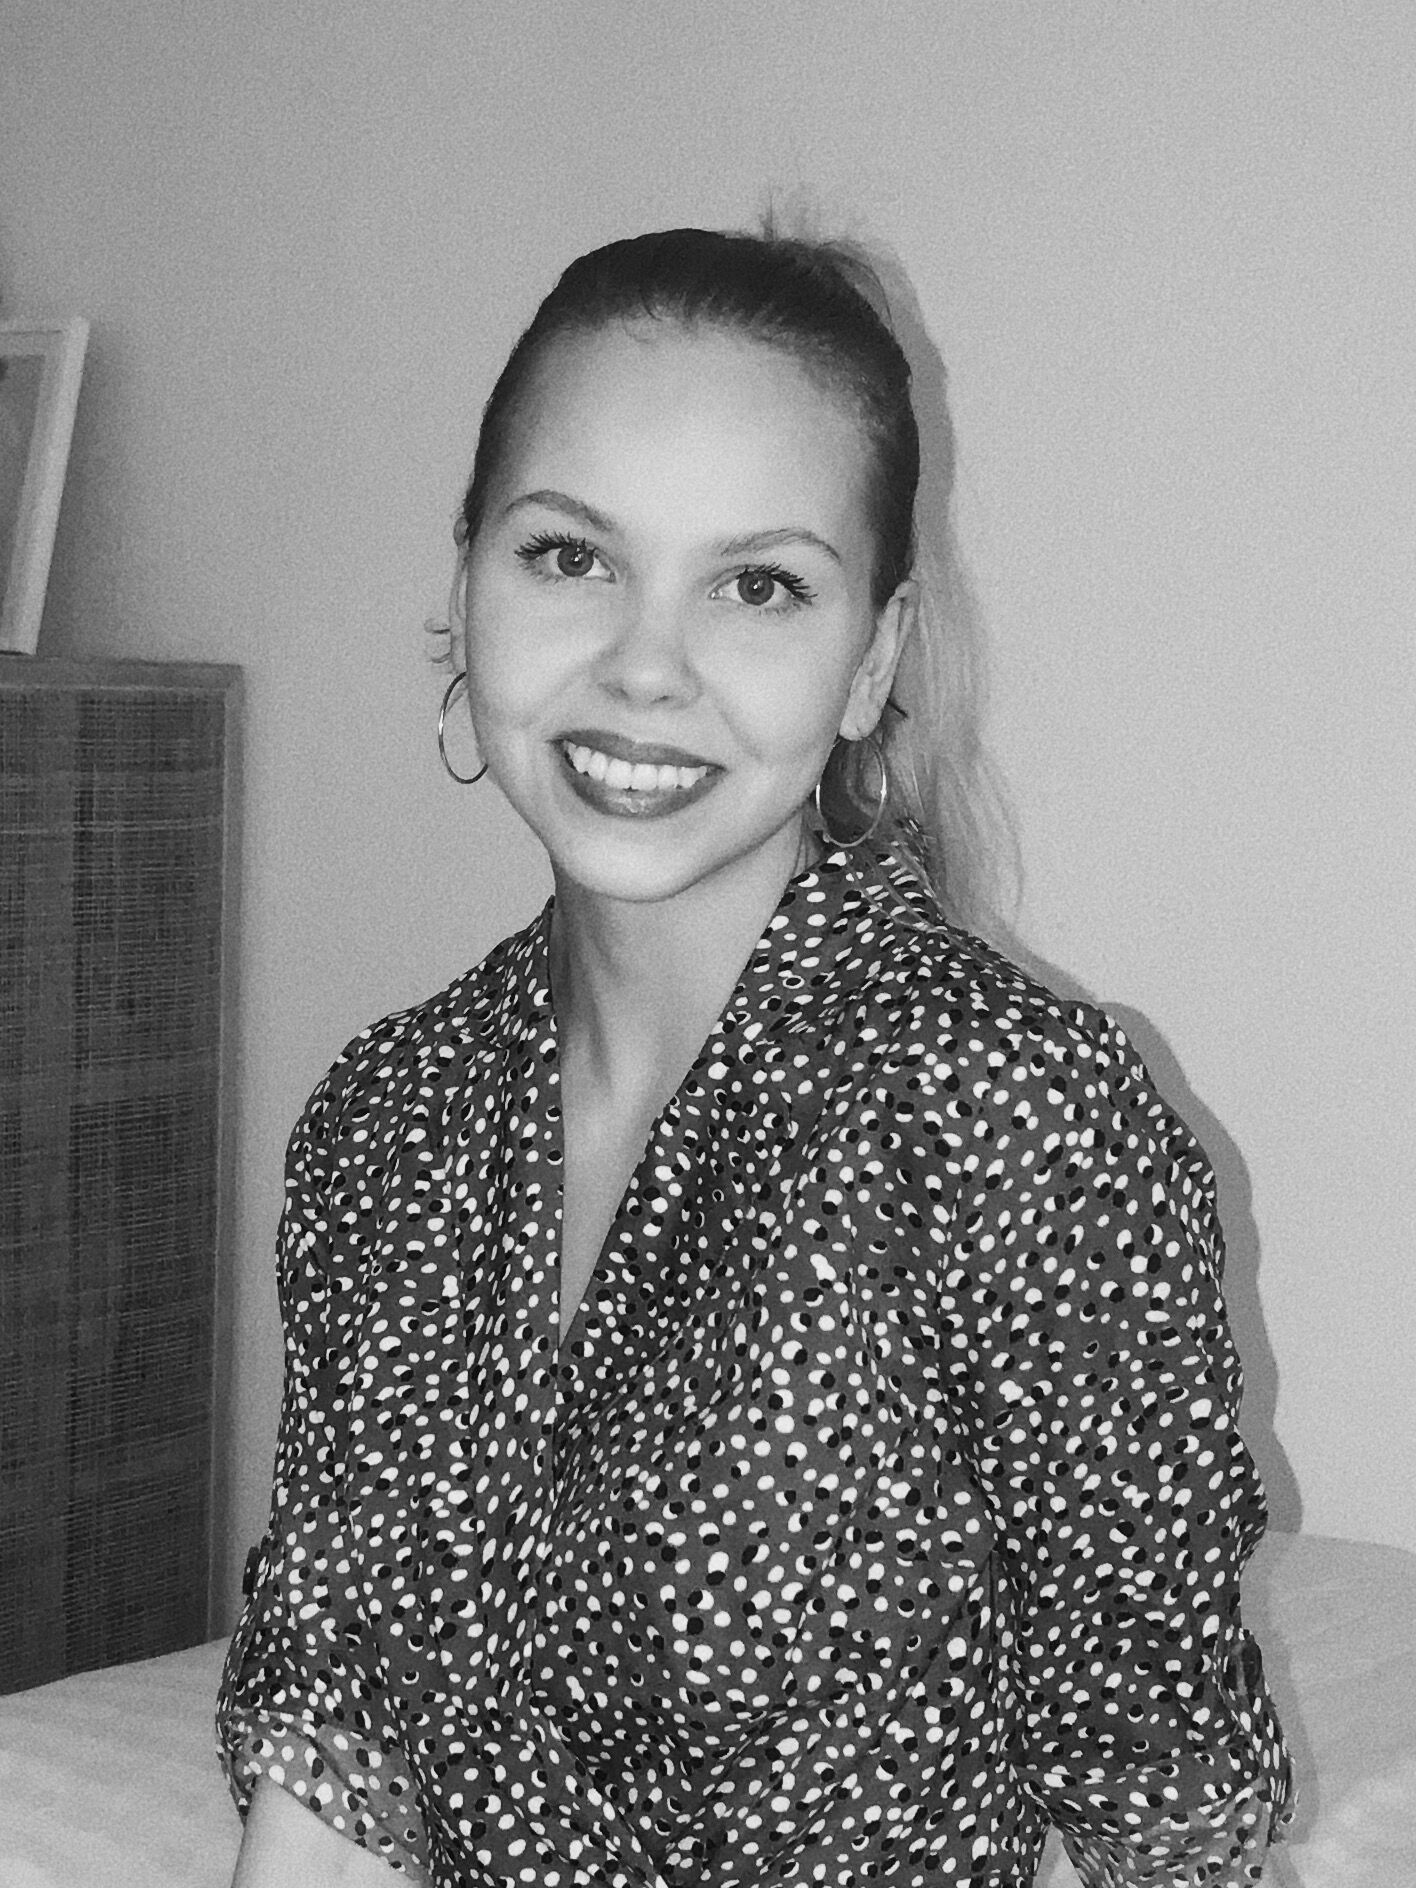
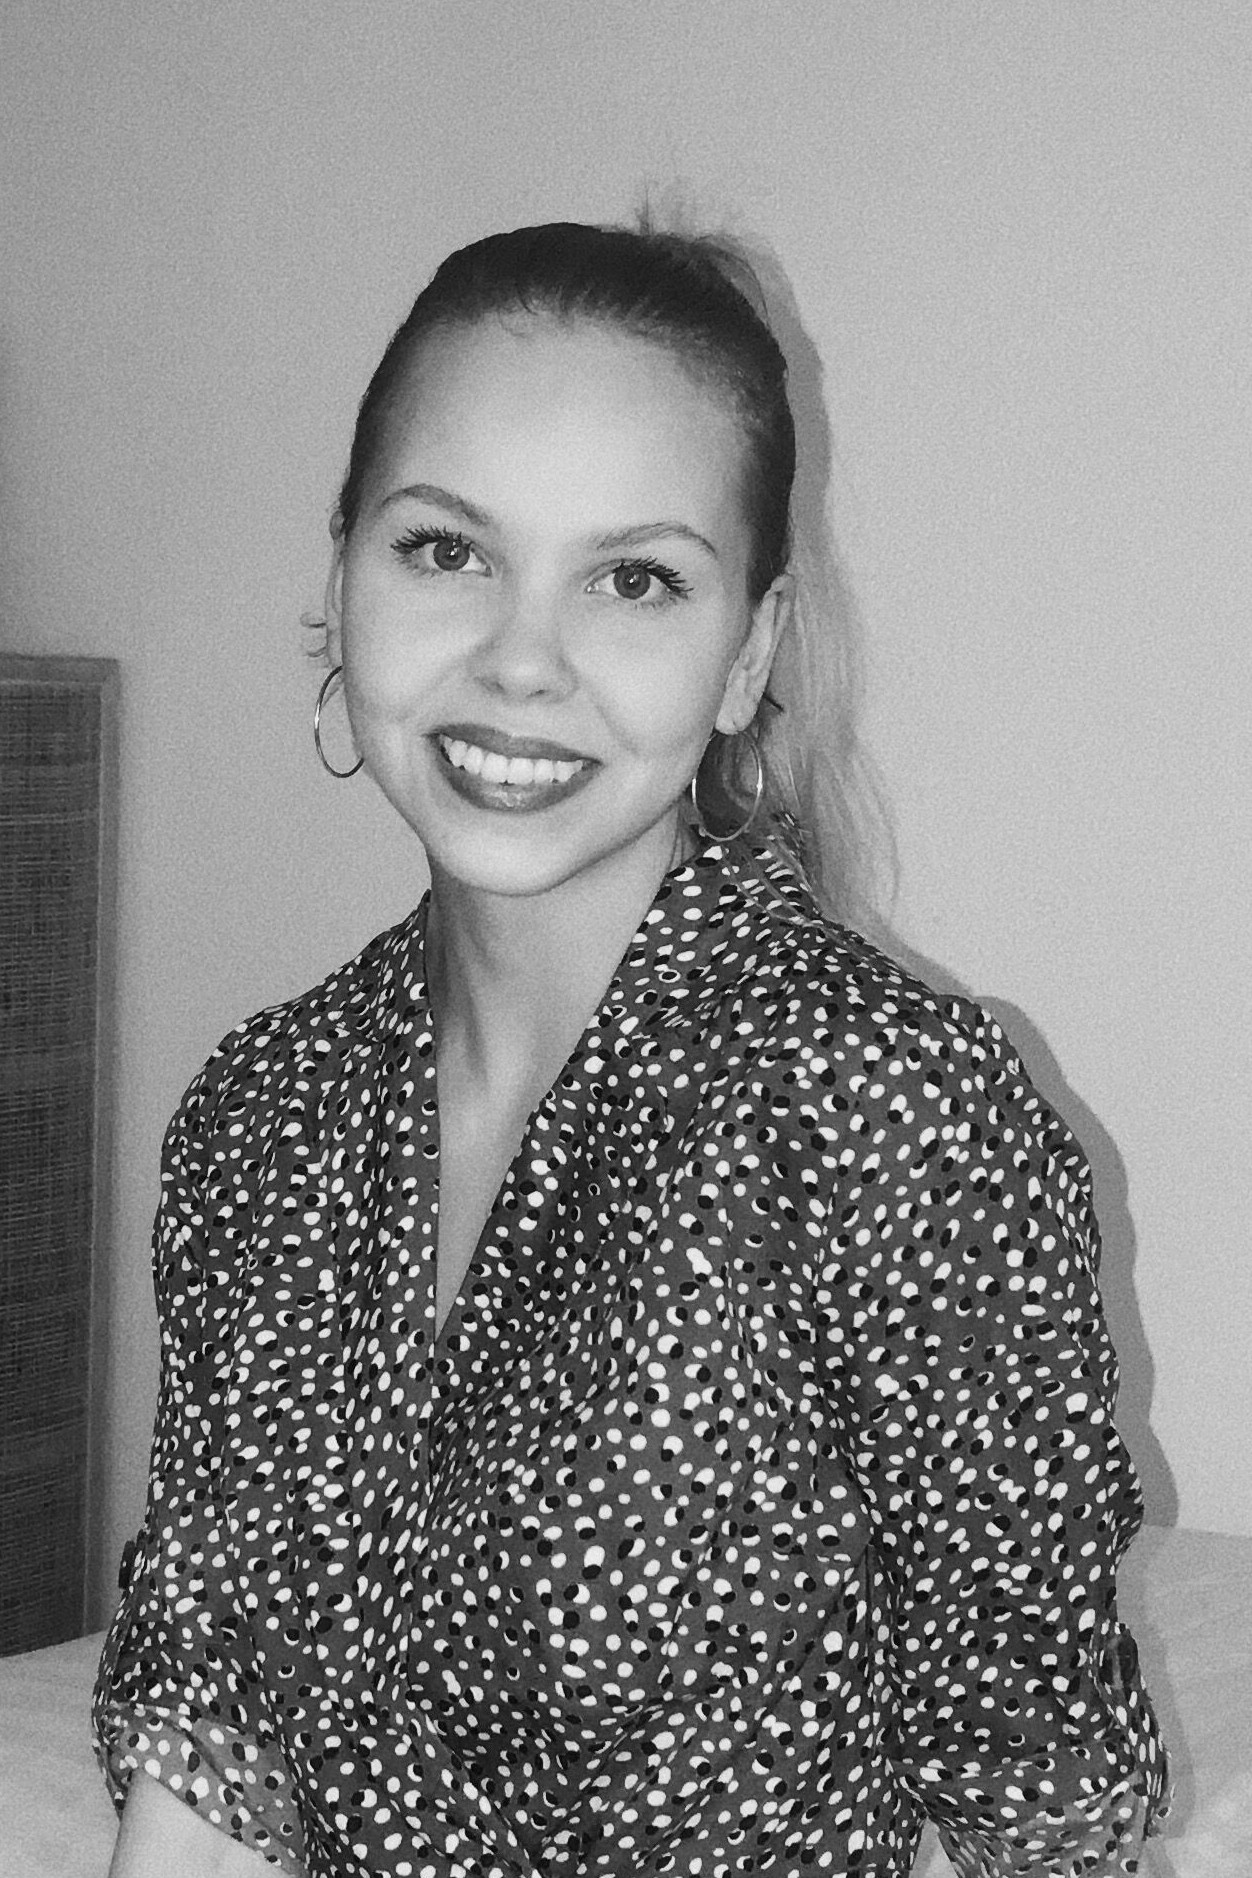
Kuvien muokkausta ja muistokirjoitus

diff --git a/Projektityo/html/tekijat.html b/Projektityo/html/tekijat.html
@@ -27,16 +27,38 @@
     </div>
 
     <h2>Sivun tekijät</h2>
-        <p> <img class="henkilokuva" src="../img/aa.jpeg"
-             alt="Karoliinan kuva" width="100">
-            <figcaption> ....</figcaption>
-        </p>
+    <div class="column">
+        <img id="henkilokuva" src="../img/aa.jpeg"
+                 alt="Karoliinan kuva">
+            <figcaption>Karoliina Kallio</figcaption>
 
-        <p>
-            Elisa Urjansson, Aaro Yli-Öyrä, Karoliina Kallio
+    </div>
+    <div class="column">
+
+            <img id="henkilokuva" src="../img/aaa.png"
+                 alt="Aaron kuva">
+                 <figcaption>Aaro Yli-Öyrä</figcaption>
+
+    </div>
+    <div class="column">
+
+            <img id="henkilokuva" src="../img/aaa.jpeg"
+                 alt="Elisan kuva">
+            <figcaption>Elisa Urjansson</figcaption>
+
+    </div>
+    <br>
+    <br>
 
 
-        </p>
+    <p style="padding-top:200px">
+
+        Olemme Metropolia Ammattikorkeakoulun ensimmäisen vuoden Tieto- ja viestintätekniikan opiskelijoita.
+        <br>
+        <br>
+
+
+    </p>
 
 </div>
 

diff --git a/Projektityo/css/tyyli.css b/Projektityo/css/tyyli.css
@@ -40,10 +40,9 @@ img .icon {
 }
 
 .tekstiosio{
-    background: white;
+    background: #ffffffcc;
     margin: 30px;
     padding: 15px;
-    opacity: 0.8;
 }
 
 nav ul{
@@ -111,5 +110,14 @@ iframe{
     background-color: fuchsia;
     width: 100%;
     z-index: 10;
+}
+.column {
+    float: left;
+    width: 33%;
+}
+#henkilokuva{
+    width: 45%;
+    position: relative;
+
 }
 
